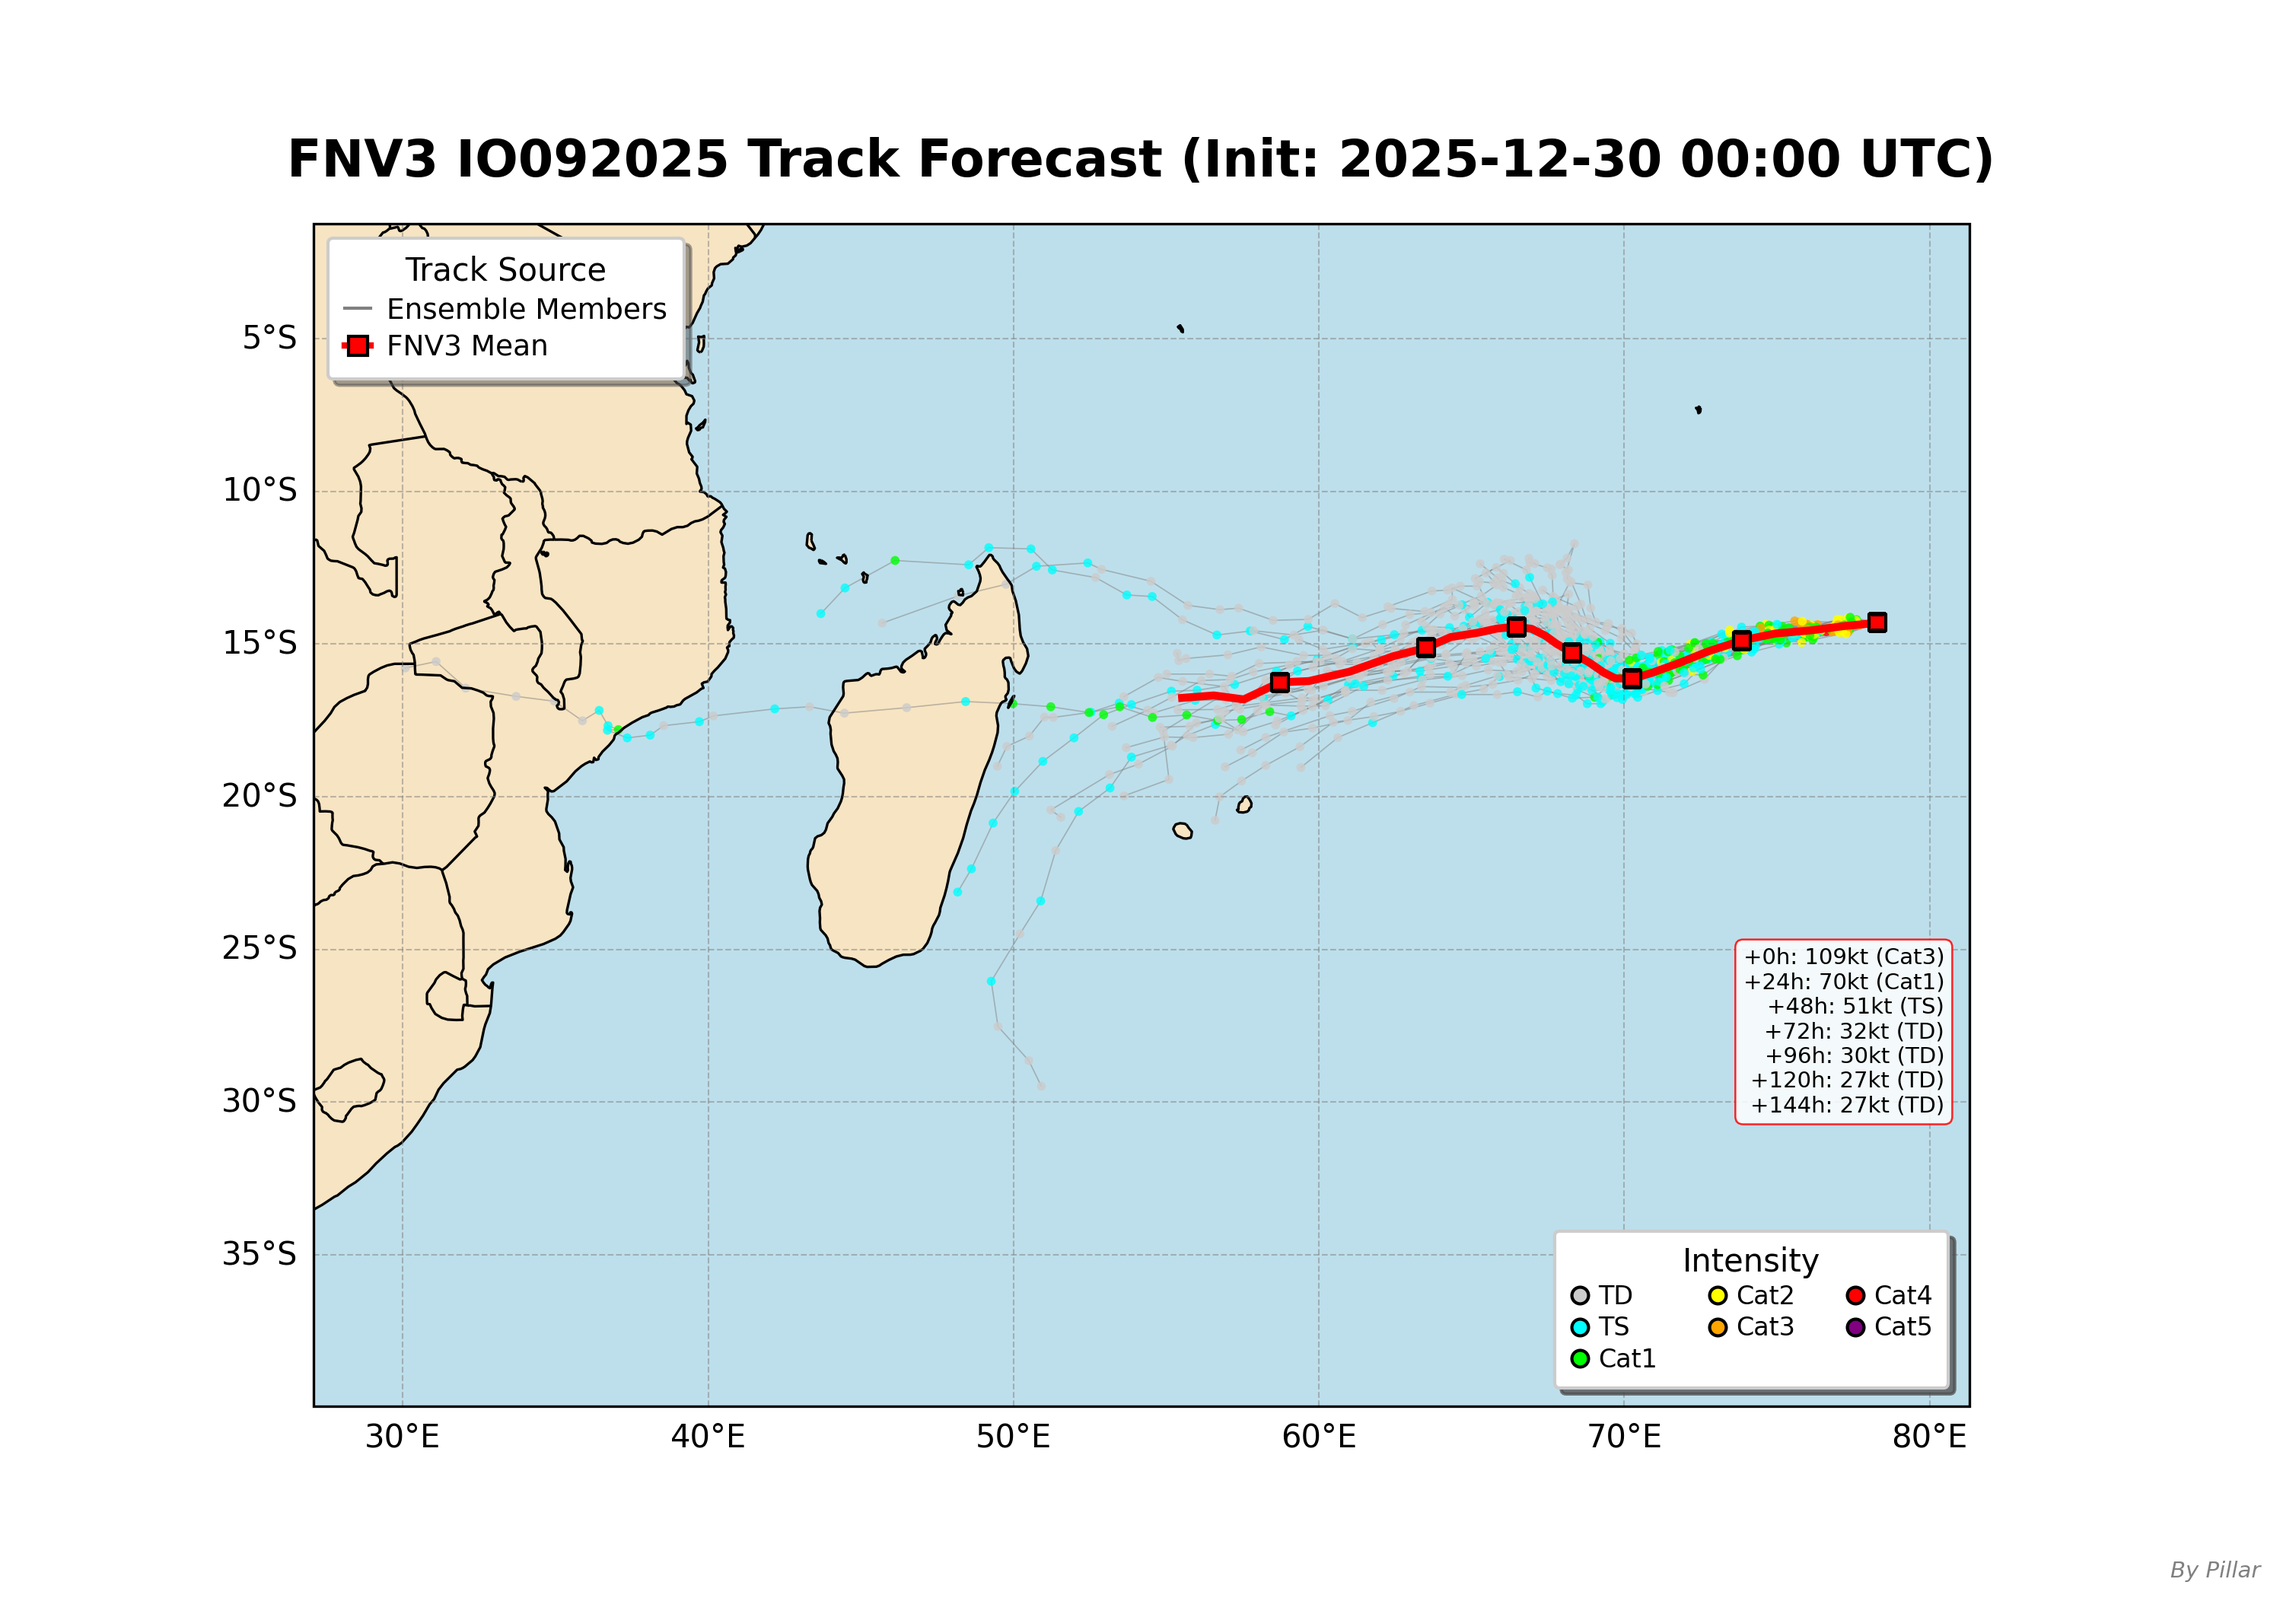
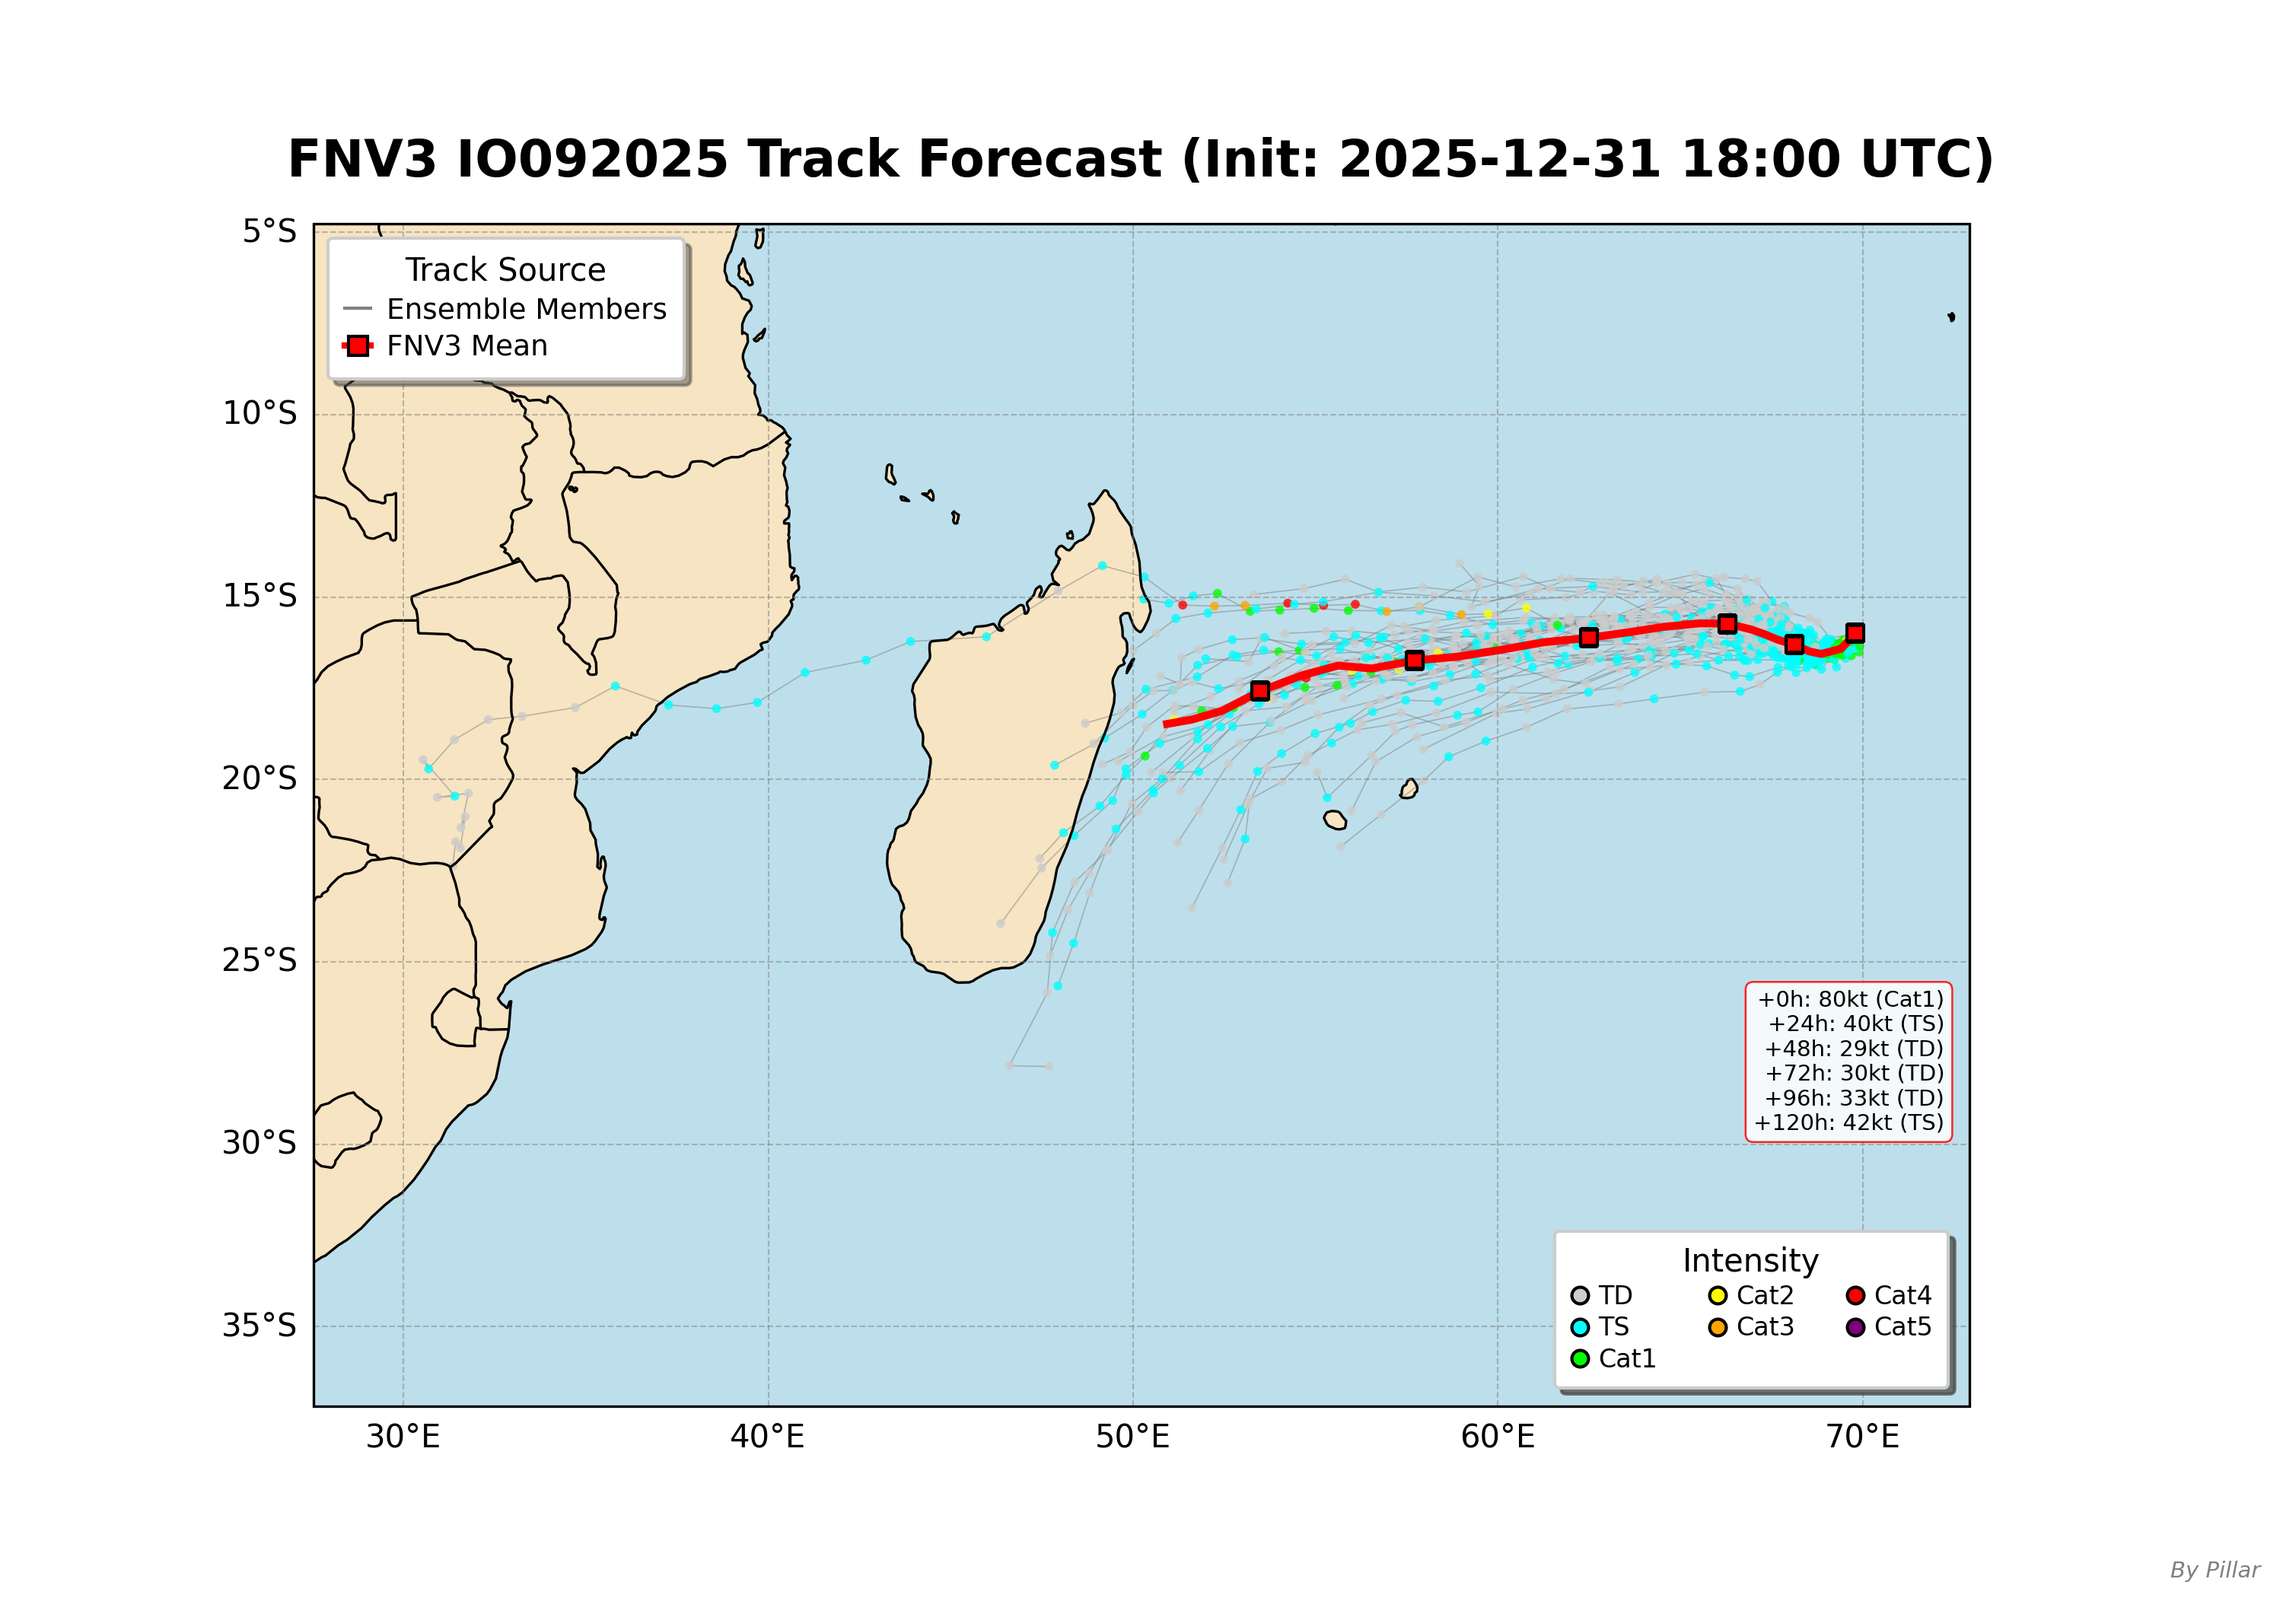
Add files via upload

diff --git a/index.html b/index.html
@@ -3,7 +3,7 @@
 <head>
     <meta charset="UTF-8">
     <meta name="viewport" content="width=device-width, initial-scale=1.0">
-    <title>Pillar's Tropical Cyclone Forecast | IO092025 / IO102025</title>
+    <title>Pillar's Tropical Cyclone Forecast | IO092025 / IO112025</title>
     <style>
         * {
             margin: 0;
@@ -689,7 +689,7 @@
                     <div class="subtitle">Real-time FNV3 Ensemble Forecast System</div>
                 </div>
                 <div class="update-badge">
-                    ⏰ Updated: 2025-12-30 16:49:13
+                    ⏰ Updated: 2026-01-01 13:36:06
                 </div>
             </div>
         </header>
@@ -708,34 +708,34 @@
                 <div class="info-grid">
                     <div class="info-item">
                         <div class="info-label">🛰 Current Time</div>
-                        <div class="info-value">300000 Z</div>
+                        <div class="info-value">010000 Z</div>
                     </div>
                     <div class="info-item">
                         <div class="info-label">📍 Current Position</div>
-                        <div class="info-value">14.3°S, 77.7°E</div>
+                        <div class="info-value">16.2°S, 68.8°E</div>
                     </div>
                     <div class="info-item">
                         <div class="info-label">💨 Maximum Wind</div>
-                        <div class="info-value">110 kt</div>
+                        <div class="info-value">70 kt</div>
                     </div>
                     <div class="info-item">
                         <div class="info-label">🔥 Intensity (Saffir-Simpson)</div>
                         <div class="info-value intensity-value">
-                            <span class="intensity-dot" style="background: #FFA500;"></span>
-                            <span class="legend-label">Cat3</span>
+                            <span class="intensity-dot" style="background: #00FF00;"></span>
+                            <span class="legend-label">Cat1</span>
                         </div>
                     </div>
                     <div class="info-item mobile-wind-radii" style="grid-column: span 2;">
                         <div class="info-label">🌀 34 kt Wind Radii</div>
-                        <div class="info-value">NE: 060 / SE: 075 / SW: 090 / NW: 025 nm</div>
+                        <div class="info-value">NE: 050 / SE: 060 / SW: 060 / NW: 050 nm</div>
                     </div>
                     <div class="info-item mobile-wind-radii" style="grid-column: span 2;">
                         <div class="info-label">🌀 50 kt Wind Radii</div>
-                        <div class="info-value">NE: 020 / SE: 035 / SW: 045 / NW: 020 nm</div>
+                        <div class="info-value">NE: 030 / SE: 030 / SW: 030 / NW: 030 nm</div>
                     </div>
                     <div class="info-item mobile-wind-radii" style="grid-column: span 2;">
                         <div class="info-label">🌀 64 kt Wind Radii</div>
-                        <div class="info-value">NE: 015 / SE: 020 / SW: 025 / NW: 015 nm</div>
+                        <div class="info-value">NE: 020 / SE: 020 / SW: 020 / NW: 020 nm</div>
                     </div>
                 </div>
 
@@ -790,9 +790,9 @@
                         <button class="control-btn" onclick="pauseAnimation('IO092025')">⏸ Pause</button>
                         <button class="control-btn" onclick="resetAnimation('IO092025')">⟲ Reset</button>
                         <div class="progress-bar-container">
-                            <input type="range" id="progress-IO092025" class="progress-slider" min="0" max="51" value="0" 
+                            <input type="range" id="progress-IO092025" class="progress-slider" min="0" max="48" value="0" 
                                    oninput="seekFrame('IO092025', this.value)">
-                            <span id="frame-counter-IO092025" class="frame-counter">1/52</span>
+                            <span id="frame-counter-IO092025" class="frame-counter">1/49</span>
                         </div>
                     </div>
                 </div>
@@ -825,42 +825,34 @@
             <div class="storm-card">
                 <div class="storm-header">
                     <div class="storm-title">
-                        HAYLEY <span class="alert-badge">LIVE</span>
+                        ELEVEN <span class="alert-badge">LIVE</span>
                     </div>
-                    <div class="storm-id">IO102025</div>
+                    <div class="storm-id">IO112025</div>
                 </div>
 
                 <div class="info-grid">
                     <div class="info-item">
                         <div class="info-label">🛰 Current Time</div>
-                        <div class="info-value">300600 Z</div>
+                        <div class="info-value">010000 Z</div>
                     </div>
                     <div class="info-item">
                         <div class="info-label">📍 Current Position</div>
-                        <div class="info-value">16.6°S, 122.4°E</div>
+                        <div class="info-value">12.8°S, 108.2°E</div>
                     </div>
                     <div class="info-item">
                         <div class="info-label">💨 Maximum Wind</div>
-                        <div class="info-value">90 kt</div>
+                        <div class="info-value">35 kt</div>
                     </div>
                     <div class="info-item">
                         <div class="info-label">🔥 Intensity (Saffir-Simpson)</div>
                         <div class="info-value intensity-value">
-                            <span class="intensity-dot" style="background: #FFFF00;"></span>
-                            <span class="legend-label">Cat2</span>
+                            <span class="intensity-dot" style="background: #00FFFF;"></span>
+                            <span class="legend-label">TS</span>
                         </div>
                     </div>
                     <div class="info-item mobile-wind-radii" style="grid-column: span 2;">
                         <div class="info-label">🌀 34 kt Wind Radii</div>
-                        <div class="info-value">NE: 085 / SE: 055 / SW: 085 / NW: 065 nm</div>
-                    </div>
-                    <div class="info-item mobile-wind-radii" style="grid-column: span 2;">
-                        <div class="info-label">🌀 50 kt Wind Radii</div>
-                        <div class="info-value">NE: 035 / SE: 030 / SW: 030 / NW: 035 nm</div>
-                    </div>
-                    <div class="info-item mobile-wind-radii" style="grid-column: span 2;">
-                        <div class="info-label">🌀 64 kt Wind Radii</div>
-                        <div class="info-value">NE: 015 / SE: 015 / SW: 015 / NW: 015 nm</div>
+                        <div class="info-value">NE: 070 / SE: 060 / SW: 000 / NW: 060 nm</div>
                     </div>
                 </div>
 
@@ -905,19 +897,19 @@
             <div class="animation-container">
                 <div class="animation-title">🎬 Track Evolution Animation</div>
                 <div class="animation-player">
-                    <img id="animation-frame-IO102025" 
-                         src="animation_frames_IO102025/frame_0000.png" 
+                    <img id="animation-frame-IO112025" 
+                         src="animation_frames_IO112025/frame_0000.png" 
                          alt="Animation" 
                          class="animation-frame"
-                         data-frames-dir="animation_frames_IO102025">
+                         data-frames-dir="animation_frames_IO112025">
                     <div class="player-controls">
-                        <button class="control-btn" onclick="playAnimation('IO102025')">▶ Play</button>
-                        <button class="control-btn" onclick="pauseAnimation('IO102025')">⏸ Pause</button>
-                        <button class="control-btn" onclick="resetAnimation('IO102025')">⟲ Reset</button>
+                        <button class="control-btn" onclick="playAnimation('IO112025')">▶ Play</button>
+                        <button class="control-btn" onclick="pauseAnimation('IO112025')">⏸ Pause</button>
+                        <button class="control-btn" onclick="resetAnimation('IO112025')">⟲ Reset</button>
                         <div class="progress-bar-container">
-                            <input type="range" id="progress-IO102025" class="progress-slider" min="0" max="14" value="0" 
-                                   oninput="seekFrame('IO102025', this.value)">
-                            <span id="frame-counter-IO102025" class="frame-counter">1/15</span>
+                            <input type="range" id="progress-IO112025" class="progress-slider" min="0" max="29" value="0" 
+                                   oninput="seekFrame('IO112025', this.value)">
+                            <span id="frame-counter-IO112025" class="frame-counter">1/30</span>
                         </div>
                     </div>
                 </div>
@@ -929,7 +921,7 @@
             <!-- Map Container -->
             <div class="map-container">
                 <div class="map-title">📍 FNV3 Track Forecast Map</div>
-                <img src="IO102025_Forecast_Map.png" alt="IO102025 Forecast Map" class="map-image">
+                <img src="IO112025_Forecast_Map.png" alt="IO112025 Forecast Map" class="map-image">
                 <div style="margin-top: 15px; color: #666; font-size: 0.95em; line-height: 1.6;">
                     <strong>Note:</strong> Gray lines represent individual ensemble members (spaghetti plot). 
                     Red line shows the ensemble mean track with 24-hour position markers. 
@@ -940,7 +932,7 @@
             <!-- JTWC Forecast Map Container -->
             <div class="map-container jtwc-forecast-map" style="margin-top: 30px;">
                 <div class="map-title">🌐 JTWC Official Forecast</div>
-                <img src="jtwc_IO102025.gif" alt="JTWC Forecast" class="map-image" onerror="this.parentElement.style.display='none'">
+                <img src="jtwc_IO112025.gif" alt="JTWC Forecast" class="map-image" onerror="this.parentElement.style.display='none'">
                 <div class="map-description" style="margin-top: 15px; color: #666; font-size: 0.95em; line-height: 1.6;">
                     <strong>Source:</strong> Joint Typhoon Warning Center (JTWC) - U.S. Navy & Air Force
                 </div>
